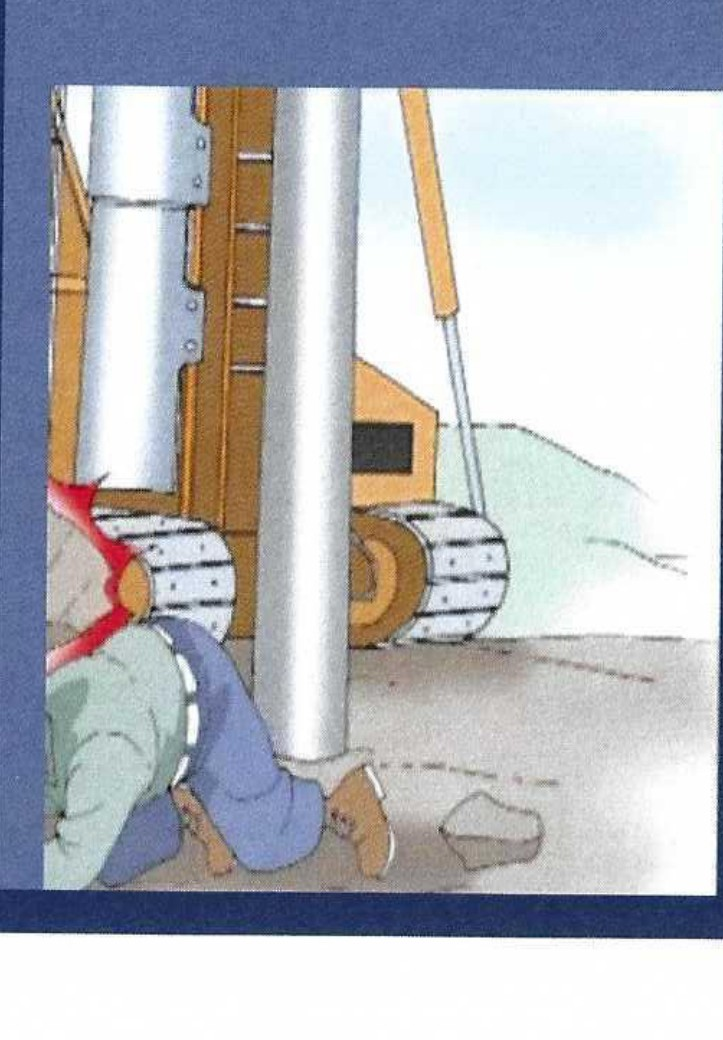
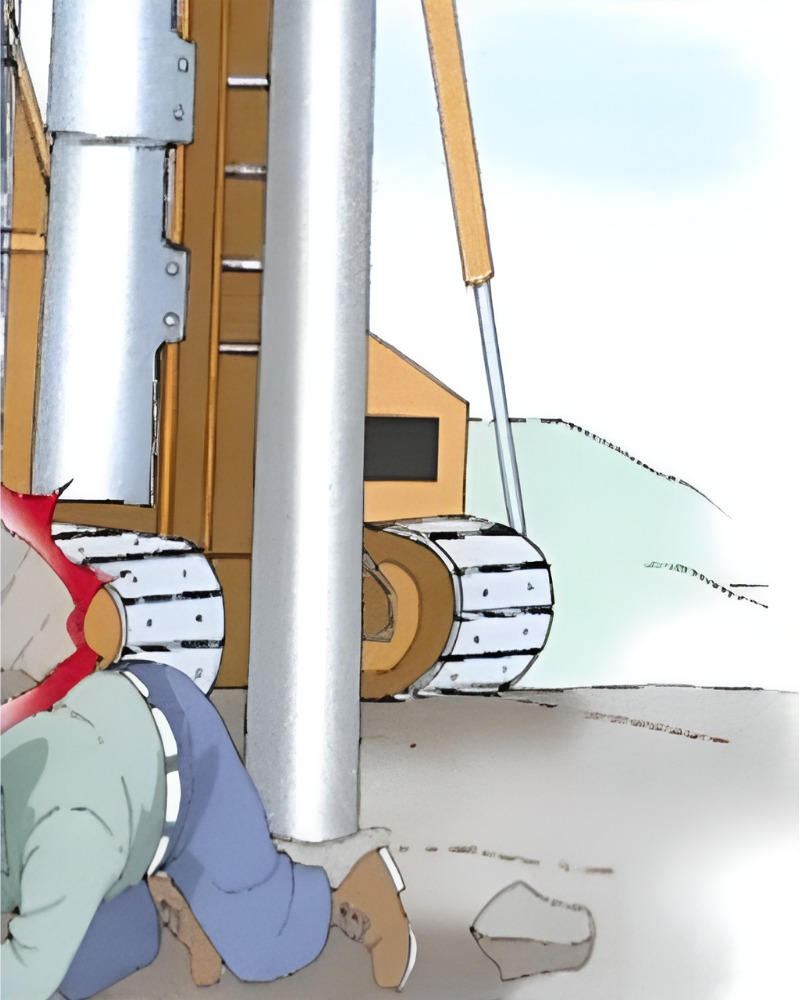
Rework safety illustrations and gallery with clean source images
- index.html: replace 4 accident illustrations with clean full-frame
  versions (object-fit:contain, no cropping)
- product.html: replace wireless remote photo with clean version
- gallery.html: trim to 3 kept site photos, add 6 equipment photos
  (하부오거 부착용, 보조리다 부착용, CIP전용, 파워팩, 무선조작리모컨)
  as uncropped cards with always-visible captions; grid changed to
  3 columns

diff --git a/public/index.html b/public/index.html
@@ -156,28 +156,28 @@
       </div>
       <div class="grid grid-4">
         <div class="card" style="padding:0; overflow:hidden;">
-          <img src="assets/img/safety/acc-bit.jpg" alt="비트/스크류교체중 안전사고" loading="lazy" style="width:100%; aspect-ratio:3/4; object-fit:cover; display:block;">
+          <img src="assets/img/safety/acc-bit.jpg" alt="비트/스크류교체중 안전사고" loading="lazy" style="width:100%; aspect-ratio:4/5; object-fit:contain; background:var(--white); display:block;">
           <div style="padding:20px;">
             <h3 style="font-size:15px; color:var(--danger);">비트/스크류교체중 안전사고</h3>
             <p style="font-size:13px; color:var(--slate-500); margin-top:6px;">부상토 낙하로 인해 비트·스크류 교체 중인 작업자를 강타하여 중대한 안전사고를 유발합니다.</p>
           </div>
         </div>
         <div class="card" style="padding:0; overflow:hidden;">
-          <img src="assets/img/safety/acc-domari.jpg" alt="도마리체크중 작업자 안전사고" loading="lazy" style="width:100%; aspect-ratio:3/4; object-fit:cover; display:block;">
+          <img src="assets/img/safety/acc-domari.jpg" alt="도마리체크중 작업자 안전사고" loading="lazy" style="width:100%; aspect-ratio:4/5; object-fit:contain; background:var(--white); display:block;">
           <div style="padding:20px;">
             <h3 style="font-size:15px; color:var(--danger);">도마리체크중 작업자 안전사고</h3>
             <p style="font-size:13px; color:var(--slate-500); margin-top:6px;">도마리체크(리바운드체크) 중이던 파일작업자, 낙하하는 부상토가 두부를 강타하여 중경상을 입은 안전사고입니다.</p>
           </div>
         </div>
         <div class="card" style="padding:0; overflow:hidden;">
-          <img src="assets/img/safety/acc-filecenter.jpg" alt="파일센터 확인중 안전사고" loading="lazy" style="width:100%; aspect-ratio:3/4; object-fit:cover; display:block;">
+          <img src="assets/img/safety/acc-filecenter.jpg" alt="파일센터 확인중 안전사고" loading="lazy" style="width:100%; aspect-ratio:4/5; object-fit:contain; background:var(--white); display:block;">
           <div style="padding:20px;">
             <h3 style="font-size:15px; color:var(--danger);">파일센터 확인중 안전사고</h3>
             <p style="font-size:13px; color:var(--slate-500); margin-top:6px;">파일 센터를 확인 중이던 파일작업자가 낙하하는 부상토에 맞아 사망한 안전사고입니다.</p>
           </div>
         </div>
         <div class="card" style="padding:0; overflow:hidden;">
-          <img src="assets/img/safety/acc-casing.jpg" alt="케이싱 용접중 안전사고" loading="lazy" style="width:100%; aspect-ratio:3/4; object-fit:cover; display:block;">
+          <img src="assets/img/safety/acc-casing.jpg" alt="케이싱 용접중 안전사고" loading="lazy" style="width:100%; aspect-ratio:4/5; object-fit:contain; background:var(--white); display:block;">
           <div style="padding:20px;">
             <h3 style="font-size:15px; color:var(--danger);">케이싱 용접중 안전사고</h3>
             <p style="font-size:13px; color:var(--slate-500); margin-top:6px;">케이싱 용접 중이던 용접공이 낙하하는 부상토에 맞아 현장에서 사망한 안전사고입니다.</p>

diff --git a/public/gallery.html b/public/gallery.html
@@ -118,7 +118,32 @@
         <h2>현장 사진 모음</h2>
         <p>이미지를 클릭하면 크게 볼 수 있습니다.</p>
       </div>
-      <div class="gallery-grid" id="gallery-grid"></div>
+      <div class="gallery-grid" id="gallery-grid">
+        <div class="gallery-item no-crop" data-lightbox="assets/img/gallery/eq-auger1.jpg" data-caption="하부오거 부착용">
+          <img src="assets/img/gallery/eq-auger1.jpg" alt="하부오거 부착용" loading="lazy">
+          <span class="cap">하부오거 부착용</span>
+        </div>
+        <div class="gallery-item no-crop" data-lightbox="assets/img/gallery/eq-auxleader.jpg" data-caption="보조리다 부착용">
+          <img src="assets/img/gallery/eq-auxleader.jpg" alt="보조리다 부착용" loading="lazy">
+          <span class="cap">보조리다 부착용</span>
+        </div>
+        <div class="gallery-item no-crop" data-lightbox="assets/img/gallery/eq-cip.jpg" data-caption="CIP 전용">
+          <img src="assets/img/gallery/eq-cip.jpg" alt="CIP 전용" loading="lazy">
+          <span class="cap">CIP 전용</span>
+        </div>
+        <div class="gallery-item no-crop" data-lightbox="assets/img/gallery/eq-powerpack.jpg" data-caption="파워팩">
+          <img src="assets/img/gallery/eq-powerpack.jpg" alt="파워팩" loading="lazy">
+          <span class="cap">파워팩</span>
+        </div>
+        <div class="gallery-item no-crop" data-lightbox="assets/img/gallery/eq-auger2.jpg" data-caption="하부오거 부착용">
+          <img src="assets/img/gallery/eq-auger2.jpg" alt="하부오거 부착용" loading="lazy">
+          <span class="cap">하부오거 부착용</span>
+        </div>
+        <div class="gallery-item no-crop" data-lightbox="assets/img/gallery/eq-remote.jpg" data-caption="무선조작 리모컨">
+          <img src="assets/img/gallery/eq-remote.jpg" alt="무선조작 리모컨" loading="lazy">
+          <span class="cap">무선조작 리모컨</span>
+        </div>
+      </div>
     </div>
   </section>
 </main>
@@ -178,23 +203,15 @@
 <script>
   (function () {
     var grid = document.getElementById("gallery-grid");
-    var captions = {
-      21: "파워팩",
-      22: "하부오거 부착용",
-      23: "무선조작 리모콘",
-      24: "하부오거 부착용",
-      25: "보조리다 부착용",
-      26: "CIP 전용"
-    };
     var html = "";
-    for (var i = 1; i <= 26; i++) {
+    for (var i = 1; i <= 3; i++) {
       var n = String(i).padStart(2, "0");
-      var cap = captions[i] || ("현장 시공사진 " + n);
+      var cap = "현장 시공사진 " + n;
       html += '<div class="gallery-item" data-lightbox="assets/img/gallery/g' + n + '.jpg" data-caption="' + cap + '">' +
               '<img src="assets/img/gallery/g' + n + '.jpg" alt="' + cap + '" loading="lazy">' +
               '<span class="cap">' + cap + '</span></div>';
     }
-    grid.innerHTML = html;
+    grid.insertAdjacentHTML("beforeend", html);
   })();
 </script>
 <script src="assets/js/main.js"></script>

diff --git a/public/assets/css/style.css b/public/assets/css/style.css
@@ -539,7 +539,7 @@ a:focus-visible, button:focus-visible, input:focus-visible, textarea:focus-visib
 .filter-btn:hover { border-color: var(--accent); color: var(--accent-dark); }
 .filter-btn.active { background: var(--navy); border-color: var(--navy); color: var(--white); }
 
-.gallery-grid { display: grid; grid-template-columns: repeat(4, 1fr); gap: 16px; }
+.gallery-grid { display: grid; grid-template-columns: repeat(3, 1fr); gap: 16px; }
 .gallery-item {
   aspect-ratio: 1/1;
   border-radius: 6px;
@@ -560,6 +560,26 @@ a:focus-visible, button:focus-visible, input:focus-visible, textarea:focus-visib
   transition: opacity 200ms ease;
 }
 .gallery-item:hover .cap { opacity: 1; }
+
+.gallery-item.no-crop {
+  aspect-ratio: auto;
+  background: var(--white);
+  border: 1px solid var(--slate-100);
+  display: flex;
+  flex-direction: column;
+}
+.gallery-item.no-crop img { width: 100%; height: auto; object-fit: contain; }
+.gallery-item.no-crop:hover img { transform: none; }
+.gallery-item.no-crop .cap {
+  position: static;
+  opacity: 1;
+  background: none;
+  color: var(--navy);
+  font-weight: 700;
+  font-size: 14px;
+  padding: 12px 14px;
+  text-align: center;
+}
 
 /* Lightbox */
 .lightbox {

diff --git a/public/product.html b/public/product.html
@@ -279,7 +279,7 @@
         <p>전원 On/Off · 정회전·역회전 · 전진·후진을 무선 리모컨 하나로 간편하게 제어합니다. 배선 연결 없이 운전석 어디서든 조작 가능합니다.</p>
       </div>
       <div class="grid" style="justify-content:center;">
-        <div class="hero-media" style="aspect-ratio:849/1180; max-width:380px; margin:0 auto;">
+        <div class="hero-media" style="aspect-ratio:760/1000; max-width:380px; margin:0 auto;">
           <img src="assets/img/hero/control-remote.jpg" alt="무선 리모컨 - 전원, 정역회전, 전후진, 비상정지 버튼" loading="lazy">
           <span class="hero-media-tag">무선 리모컨 (E-STOP 비상정지 포함)</span>
         </div>
